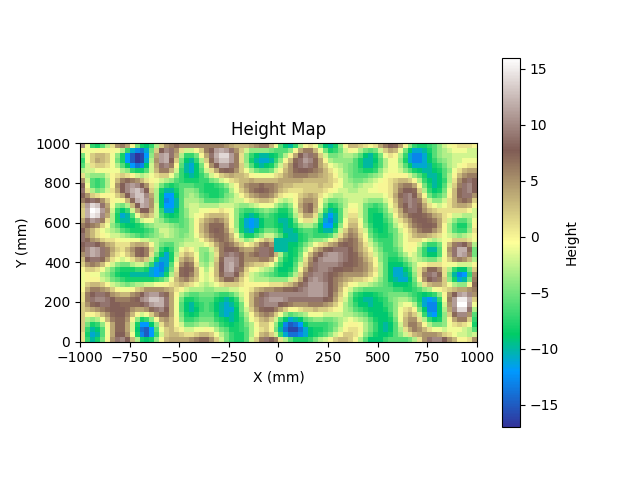
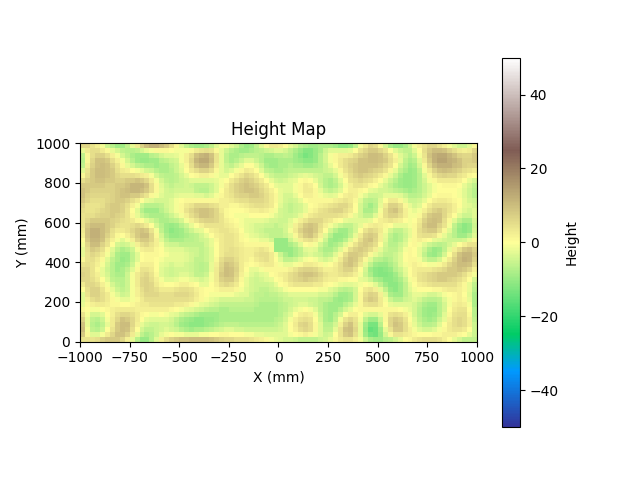
25/05/27

diff --git a/pushing/pushing_main.py b/pushing/pushing_main.py
@@ -111,8 +111,12 @@ def generate_height_map(depth_images, camera_poses, intrinsic_depth, map_resolut
     z_vals = merged_points[:, 2] # Z축이 Height (높이)에 해당
 
     # Height Map의 경계 계산
-    x_min, x_max = x_vals.min(), x_vals.max()
-    y_min, y_max = y_vals.min(), y_vals.max()
+    x_min, x_max = -1.0, 1.0 # x_vals.min(), x_vals.max()
+    y_min, y_max = 0.0, 1.0 # y_vals.min(), y_vals.max()
+    print(f"==>> y_min: {y_min}")
+    print(f"==>> y_max: {y_max}")
+    # x_min, x_max = -1000, 1000
+    # y_min, y_max = 0, 1000
 
     # 그리드 축 생성 (최대값 포함을 위해 resolution 추가)
     grid_x = np.arange(x_min, x_max + map_resolution, map_resolution)
@@ -138,7 +142,7 @@ def generate_height_map(depth_images, camera_poses, intrinsic_depth, map_resolut
     # 6. 시각화 및 저장
     plt.figure(figsize=(10, 8))
     plt.imshow(height_map, cmap='terrain', origin='lower',
-               extent=[x_min, x_max, y_min, y_max]) # 실제 월드 좌표 범위를 플롯에 표시
+               extent=[-1000, 1000, 0, 1000], vmin = -0.1, vmax = 0.1) # 실제 월드 좌표 범위를 플롯에 표시
     plt.colorbar(label='Height (m)')
     plt.title("Merged Height Map from Multiple Camera Views")
     plt.xlabel("X-coordinate (m)")
@@ -454,7 +458,7 @@ def save_original_heightmap(height_map, save_dir):
     """
     # 이미지 1. 원본 height map 저장
     extent = [-1000, 1000, 0, 1000]  # (left, right, bottom, top)
-    plt.imshow(height_map, cmap='terrain', extent=extent, origin='upper')
+    plt.imshow(height_map, cmap='terrain', extent=extent, origin='upper', vmin = -50, vmax = 50)
     plt.title("Height Map")
     plt.xlabel("X (mm)")
     plt.ylabel("Y (mm)")

diff --git a/test.py b/test.py
@@ -1,0 +1,10 @@
+import numpy as np
+import os
+
+save_dir = "/home/gh6891/robot/pushing/test_image"
+os.makedirs(save_dir, exist_ok=True)
+
+load_path = os.path.join(save_dir, "heightmap_array.npy")
+height_map = np.load(load_path)
+print(height_map.max())
+print(height_map.min())
